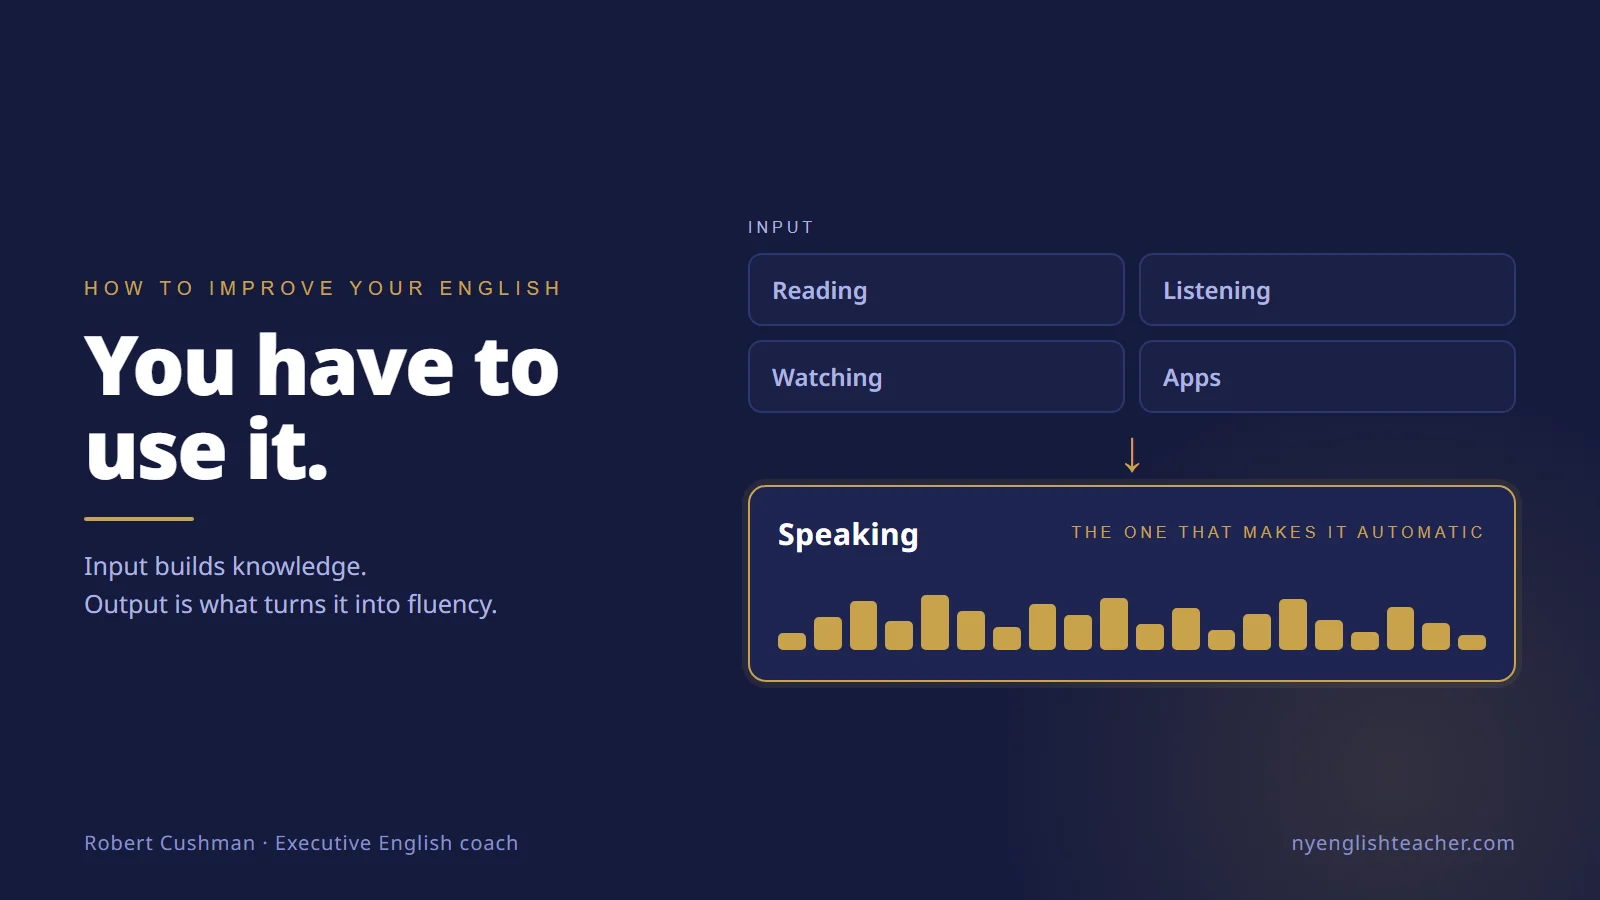
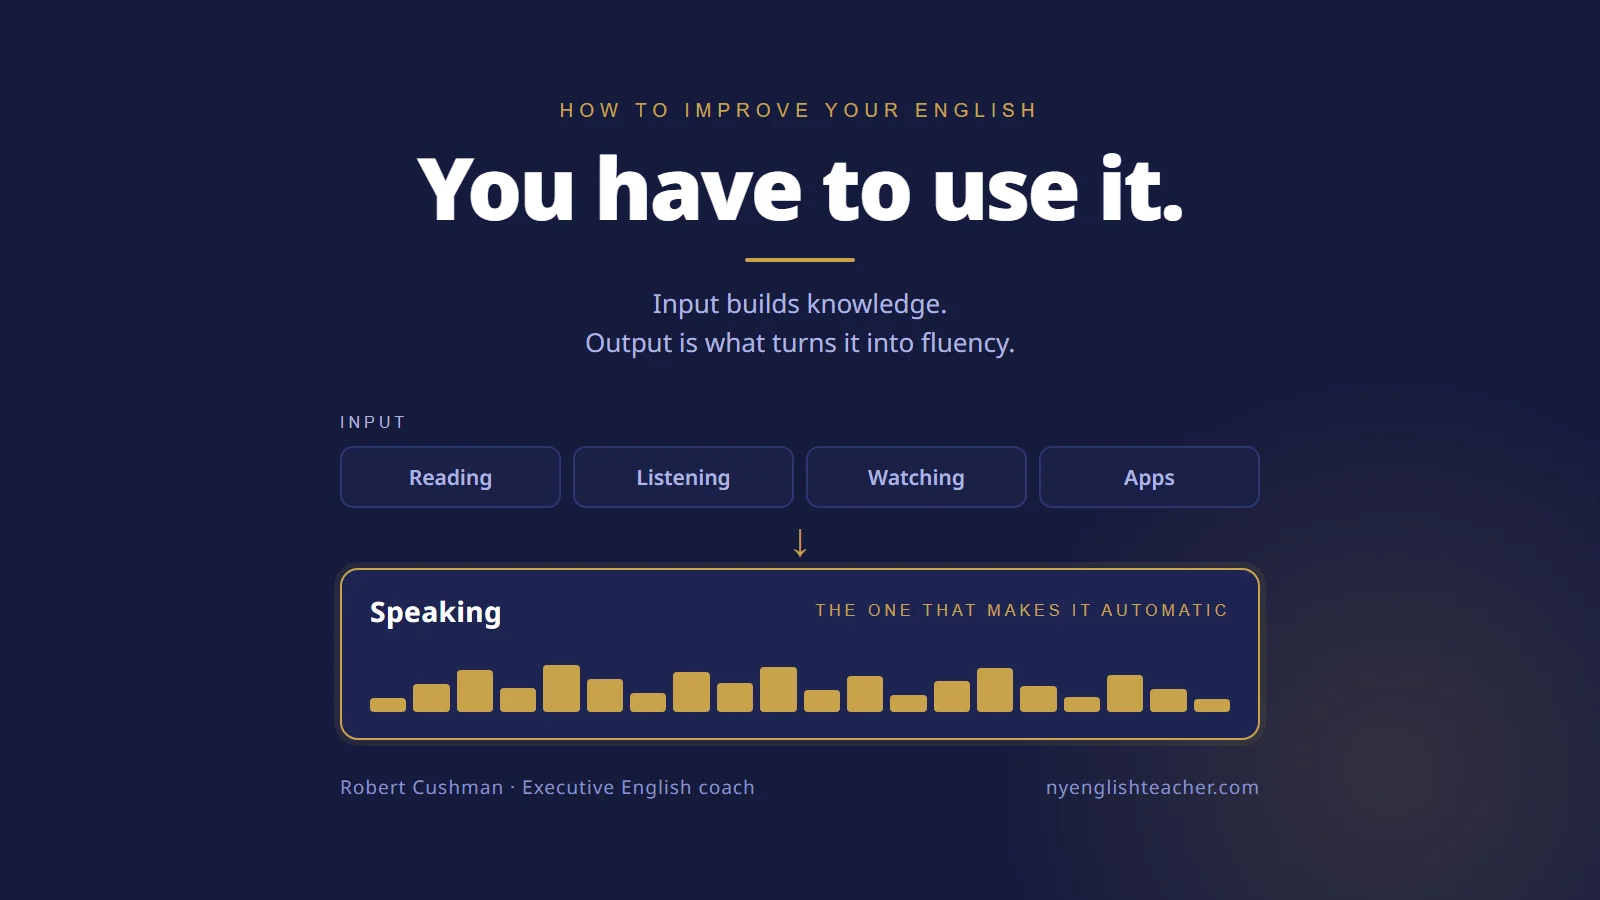
fix: refit the cornerstone hero so the blog template stops cropping it
The hero was authored full-bleed at 16:9 and the post template chops it twice.

  1. src/pages/{en,es}/blog/[slug].astro hardcodes width={1200} height={675} on the
     Astro <Image>, so any source is re-encoded to 16:9 before it reaches the
     browser. Authoring the hero taller does not survive this step — a 4:3 source
     loses its top and bottom here.
  2. The browser then applies object-cover into a fixed box: 904x675 on desktop
     (container-small 1000px minus 48px padding, lg:h-[675px]), 704x450 at md,
     ~327x300 on mobile.

No box is ever taller in ratio than 16:9, so the crop is always horizontal:
12.3% off each side on desktop, 6.0% at md, 19.3% on mobile. The old hero put the
headline at the far left and the Speaking panel at the far right, so both ends
were being cut.

Fix is in the artwork, not the template — changing the template would re-crop the
heroes on all 40+ existing posts.

- hero recomposed as a centred 920px column inside the 1600x900 frame; the navy
  outside that column is deliberate bleed, the band object-cover discards
- headline now one line, stack centred under it, footer inside the column
- generator carries the arithmetic in a comment so the next hero starts correct

Verified by simulating the real pipeline (Astro 1200x675 cover, then object-cover
into each of the three boxes): nothing is clipped at desktop, md or mobile. Build
passes, emitted variants are 1600x900 / 1200x675 / 600x338 with no re-crop, blog
[…]

diff --git a/scripts/one-off/gen-cornerstone-images.py b/scripts/one-off/gen-cornerstone-images.py
@@ -9,12 +9,13 @@ own webfonts (public/fonts) so the artwork matches nyenglishteacher.com.
 Palette is read from context-writing-system/docs/BRAND-KIT.md (NY English Teacher:
 gold #C9A24B on navy #161B3D). Never type these from memory.
 
-Two-step, because Chromium only screenshots png/jpeg:
+Two-step, because Chromium only screenshots png/jpeg. PNGs land in
+%TEMP%/ny-eng-cornerstone-images; only the .webp files are committed.
 
-  1. python scripts/one-off/gen-cornerstone-images.py          # both languages -> ./png
+  1. python scripts/one-off/gen-cornerstone-images.py          # both languages
      python scripts/one-off/gen-cornerstone-images.py en       # one language
 
-  2. node -e "const s=require('sharp');s('png/<name>-en.png').webp({quality:86})
+  2. node -e "const s=require('sharp');s('<temp>/<name>-en.png').webp({quality:86})
      .toFile('src/content/blog/en/images/<name>.webp')"
 
 Destination names (EN -> src/content/blog/en/images/, ES -> .../es/images/):
@@ -46,7 +47,26 @@ OUT.mkdir(exist_ok=True)
 
 FONT_DIR = (REPO / "public" / "fonts").as_uri()
 
-W, H = 1600, 900
+# Inline body images render at their natural aspect ratio inside `prose`, so they
+# can use the whole frame. The HERO cannot, and the reason is worth writing down.
+#
+# src/pages/{en,es}/blog/[slug].astro renders the hero twice-cropped:
+#   1. the Astro <Image> hardcodes width={1200} height={675}, so ANY source is
+#      re-encoded to 16:9 before it reaches the browser — a 4:3 hero loses its top
+#      and bottom here, which is why authoring taller does not help;
+#   2. the browser then applies `object-cover` into a fixed box: 904x675 desktop
+#      (container-small 1000px minus 48px padding), 704x450 at md, ~327x300 mobile.
+#
+# No box is ever taller in ratio than 16:9, so step 2 only ever crops HORIZONTALLY:
+#   desktop 12.3% off each side · md 6.0% · mobile 19.3%
+#
+# So: author the hero at 16:9 and keep every element inside a centred column narrow
+# enough to survive the worst case. Mobile leaves a 980px centre band of the 1600px
+# canvas; HERO_COL is set under that with room to spare.
+SIZE_WIDE = (1600, 900)
+HERO_COL = 920  # px — the crop-safe centre column for hero content
+
+W, H = SIZE_WIDE
 
 BG = "#161B3D"
 PANEL = "#1E2452"
@@ -84,7 +104,6 @@ BASE_CSS = f"""
   font-weight: 400; font-display: block;
 }}
 * {{ margin:0; padding:0; box-sizing:border-box; }}
-html, body {{ width:{W}px; height:{H}px; }}
 body {{
   font-family: 'NotoSans', sans-serif;
   background: {BG};
@@ -125,32 +144,46 @@ body {{
 """
 
 
-def page_html(body: str, extra_css: str = "") -> str:
+def page_html(body: str, extra_css: str = "", size=SIZE_WIDE) -> str:
+    w, h = size
+    size_css = f"html, body {{ width:{w}px; height:{h}px; }}"
     return f"""<!doctype html><html><head><meta charset="utf-8">
-<style>{BASE_CSS}{extra_css}</style></head>
+<style>{BASE_CSS}{size_css}{extra_css}</style></head>
 <body><div class="glow"></div>{body}</body></html>"""
 
 
 # --------------------------------------------------------------------------
 # 1. HERO — input stack vs. the one thing that makes English automatic
 # --------------------------------------------------------------------------
-HERO_CSS = """
-.hero { display:flex; gap:64px; height:100%; align-items:center; }
-.hero-left { width:600px; flex:none; }
-.hero-left h1 { font-size:82px; line-height:1.02; font-weight:900; letter-spacing:-2px; }
-.hero-left .lede { font-size:25px; line-height:1.5; color:#AEB4E0; margin-top:26px; }
-.hero-right { flex:1; display:flex; flex-direction:column; align-items:center; gap:16px; }
-.chips { display:grid; grid-template-columns:1fr 1fr; gap:14px; width:100%; }
-.chip {
-  background:#1A2047; border:2px solid #2E3670; border-radius:14px;
-  padding:18px 22px; font-size:24px; color:#AEB4E0; font-weight:600;
-}
-.arrow { color:#C9A24B; font-size:40px; line-height:1; }
-.speak { width:100%; padding:26px 28px 30px; }
-.speak .label { display:flex; justify-content:space-between; align-items:center; }
-.speak .label b { font-size:30px; font-weight:700; color:#FFFFFF; letter-spacing:0.5px; }
-.wave { display:flex; align-items:flex-end; gap:8px; height:74px; margin-top:22px; }
-.wave i { flex:1; background:#C9A24B; border-radius:5px; display:block; }
+HERO_CSS = f"""
+/* Everything lives in a {HERO_COL}px centred column. The navy outside it is
+   deliberate bleed — that is the band the template's object-cover throws away
+   (19.3% per side at the worst breakpoint). Nothing meaningful goes there. */
+.hero-frame {{
+  position:absolute; inset:0;
+  display:flex; flex-direction:column; align-items:center; justify-content:center;
+  text-align:center;
+}}
+.hero-col {{ width:{HERO_COL}px; display:flex; flex-direction:column; align-items:center; }}
+.hero-col h1 {{ font-size:86px; line-height:1.0; font-weight:900; letter-spacing:-2.5px;
+                margin-top:22px; }}
+.hero-col .lede {{ font-size:26px; line-height:1.5; color:#AEB4E0; margin-top:22px; }}
+.stackwrap {{ width:100%; margin-top:52px; display:flex; flex-direction:column;
+              align-items:center; gap:14px; }}
+.chips {{ display:grid; grid-template-columns:repeat(4, 1fr); gap:12px; width:100%; }}
+.chip {{
+  background:#1A2047; border:2px solid #2E3670; border-radius:13px;
+  padding:15px 8px; font-size:21px; color:#AEB4E0; font-weight:600; text-align:center;
+}}
+.arrow {{ color:#C9A24B; font-size:32px; line-height:1; }}
+.speak {{ width:100%; padding:22px 28px 26px; }}
+.speak .label {{ display:flex; justify-content:space-between; align-items:center; }}
+.speak .label b {{ font-size:28px; font-weight:700; color:#FFFFFF; letter-spacing:0.5px; }}
+.wave {{ display:flex; align-items:flex-end; gap:7px; height:64px; margin-top:18px; }}
+.wave i {{ flex:1; background:#C9A24B; border-radius:4px; display:block; }}
+.hero-foot {{ width:100%; margin-top:34px;
+              display:flex; justify-content:space-between; align-items:center;
+              font-size:19px; color:#8891C7; letter-spacing:1px; }}
 """
 
 WAVE = [22, 44, 66, 38, 74, 52, 30, 62, 46, 70, 34, 56, 26, 48, 68, 40, 24, 58, 36, 20]
@@ -160,7 +193,7 @@ def hero(lang):
     t = {
         "en": dict(
             eyebrow="How to improve your English",
-            h1="You have to<br>use it.",
+            h1="You have to use it.",
             lede="Input builds knowledge.<br>Output is what turns it into fluency.",
             input_label="Input",
             chips=["Reading", "Listening", "Watching", "Apps"],
@@ -170,7 +203,7 @@ def hero(lang):
         ),
         "es": dict(
             eyebrow="Cómo mejorar tu inglés",
-            h1="Tienes que<br>usarlo.",
+            h1="Tienes que usarlo.",
             lede="Leer y escuchar te dan conocimiento.<br>Hablar es lo que da fluidez.",
             input_label="Lo que recibes",
             chips=["Leer", "Escuchar", "Ver videos", "Apps"],
@@ -182,15 +215,14 @@ def hero(lang):
     bars = "".join(f'<i style="height:{h}%"></i>' for h in WAVE)
     chips = "".join(f'<div class="chip">{c}</div>' for c in t["chips"])
     body = f"""
-<div class="frame">
-  <div class="hero">
-    <div class="hero-left">
-      <div class="eyebrow">{t['eyebrow']}</div>
-      <h1 style="margin-top:22px">{t['h1']}</h1>
-      <div class="rule" style="margin-top:28px"></div>
-      <p class="lede">{t['lede']}</p>
-    </div>
-    <div class="hero-right">
+<div class="hero-frame">
+  <div class="hero-col">
+    <div class="eyebrow">{t['eyebrow']}</div>
+    <h1>{t['h1']}</h1>
+    <div class="rule" style="margin-top:28px"></div>
+    <p class="lede">{t['lede']}</p>
+
+    <div class="stackwrap">
       <div class="tag sub" style="align-self:flex-start">{t['input_label']}</div>
       <div class="chips">{chips}</div>
       <div class="arrow">&#8595;</div>
@@ -199,10 +231,10 @@ def hero(lang):
         <div class="wave">{bars}</div>
       </div>
     </div>
+    <div class="hero-foot"><span>{t['foot_left']}</span><span>nyenglishteacher.com</span></div>
   </div>
-  <div class="foot"><span>{t['foot_left']}</span><span>nyenglishteacher.com</span></div>
 </div>"""
-    return page_html(body, HERO_CSS)
+    return page_html(body, HERO_CSS, SIZE_WIDE)
 
 
 # --------------------------------------------------------------------------
@@ -445,11 +477,12 @@ def weekly_formula(lang):
     return page_html(body, FORMULA_CSS)
 
 
+# name -> (builder, canvas size). The hero is 4:3; everything else is 16:9.
 CARDS = {
-    "improve-your-english-use-it": hero,
-    "collect-patterns-not-words": words_vs_patterns,
-    "translating-to-automatic-english": translate_vs_retrieve,
-    "weekly-english-practice-formula": weekly_formula,
+    "improve-your-english-use-it": (hero, SIZE_WIDE),
+    "collect-patterns-not-words": (words_vs_patterns, SIZE_WIDE),
+    "translating-to-automatic-english": (translate_vs_retrieve, SIZE_WIDE),
+    "weekly-english-practice-formula": (weekly_formula, SIZE_WIDE),
 }
 
 
@@ -457,16 +490,19 @@ def main():
     langs = sys.argv[1:] or ["en", "es"]
     with sync_playwright() as p:
         browser = p.chromium.launch()
-        page = browser.new_page(viewport={"width": W, "height": H}, device_scale_factor=1)
         for lang in langs:
-            for name, fn in CARDS.items():
+            for name, (fn, (w, h)) in CARDS.items():
+                page = browser.new_page(
+                    viewport={"width": w, "height": h}, device_scale_factor=1
+                )
                 html_path = OUT / f"{name}-{lang}.html"
                 html_path.write_text(fn(lang), encoding="utf-8")
                 page.goto(html_path.as_uri())
                 page.wait_for_timeout(350)
                 png = OUT / f"{name}-{lang}.png"
                 page.screenshot(path=str(png))
-                print("rendered", png.name)
+                page.close()
+                print(f"rendered {png.name}  ({w}x{h})")
         browser.close()
 
 
